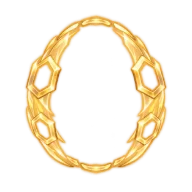
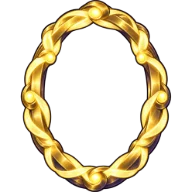
전투판: 칸 아래 알약 가로로 나란히 · 다음 그림 10장 (물 예고 3 · 별자리 표식 · 결계 · 별의 잠 · 해파리 2 · 안전 칸 · 번호패) (89)
- Lim 2026-10-16: 「상태, 쥐떼가 겹치면 수평으로 나란히」 → 칸 아래 꼭짓점 알약 (성격 상태 · 때리는 적 이름 · 쥐떼)을 lowPills가 한 줄에 가로로 나란히 (묶음 가운데 = 칸 가운데, 판 밖이면 묶음째 안쪽).
  「20인 글자는 5인 기준 비율대로 축소, 예외 없음」 · 「강타 숫자는 이름을 가려도 그 위에」는 지금 그대로라 바꾸지 않음.
- 「다음 그림도」: 물 예고 3종 점선 뺌 (물만 칸 아래 1/3), 별자리 표식 · 결계 · 별의 잠 굵게 (HERO_ART_BOX 다시 재고 크기 맞춤),
  해파리 고리 · 점괘 굵은 외곽선, 안전 칸은 빛 기둥 (받침 발판과 구분), 차례 번호표 = 은쟁반 번호패 그림 + 숫자 (다음 번호는 금빛).
- 감옥 칸: 감옥 그림이 있으면 크림 테를 그리지 않고, 딜러가 깨는 중 표시는 금빛 과녁 원 대신 일점사와 같은 칼날 표식.

diff --git a/src/battle/board.ts b/src/battle/board.ts
@@ -751,6 +751,15 @@ function pill(g: Graphics, lb: Labels, key: string, x: number, y: number, text: 
   recordBound(key, kind, 'pill', p.x, p.y, w + 1.5, h + 1.5);
   return { ...p, w: w + 1.5, h: h + 1.5 };
 }
+/** 칸 아래 꼭짓점 알약 여럿 (상태 · 때리는 적 · 쥐떼): 한 줄에 가로로 나란히, 묶음 가운데가 칸 가운데 (판 밖으로 나가면 묶음째 안쪽으로) */
+function lowPills(list: { key: string; text: string; bg: number; fg: number }[], x: number, y: number, size: number): void {
+  if (!list.length) return;
+  const gap = 2, ws = list.map(p => measure(p.text, size) + size * 0.7 + 1.5), total = ws.reduce((a, w) => a + w, 0) + gap * (list.length - 1);
+  let cx = Math.min(Math.max(x, L.left + total / 2 + 0.75), L.right - total / 2 - 0.75);
+  if (L.right - L.left < total + 1.5) cx = (L.left + L.right) / 2;
+  let left = cx - total / 2;
+  list.forEach((p, i) => { pill(overG, labels, p.key, left + ws[i] / 2, y, p.text, p.bg, p.fg, size); left += ws[i] + gap; });
+}
 /** 지속 힐 원 (디버프 배지가 없을 때 오른쪽 위). 배지가 있으면 배지 줄 오른쪽 (hotSpot) */
 function hotCenter(x: number, y: number, radius: number, lower: number): { x: number; y: number } {
   const p = fitCenter(x, y, radius);
@@ -1235,8 +1244,8 @@ const HERO_BOARD_ART: Partial<Record<HeroKey, string[]>> = {
  * 칸 위에 얹는 그림의 그려진 부분 (192px 그림 중 폭 · 높이 비율, 80 5장 납품본을 잼). 판 가장자리에서 크기를 줄일 때 씀 (비율은 그대로)
  */
 const HERO_ART_BOX: Record<string, [number, number]> = {
-  'board-totem-rain': [0.75, 0.92], 'board-mist': [0.98, 0.49], 'board-seal': [0.85, 0.96], 'board-barrier': [0.74, 0.84],
-  'board-star-mark': [0.86, 0.66], 'board-star': [0.8, 0.96], 'board-star-sleep': [0.74, 0.98],
+  'board-totem-rain': [0.75, 0.92], 'board-mist': [0.98, 0.49], 'board-seal': [0.85, 0.96], 'board-barrier': [0.79, 1],
+  'board-star-mark': [0.99, 0.79], 'board-star': [0.8, 0.96], 'board-star-sleep': [0.79, 1], // 결계 · 별의 잠 · 별자리 표식은 2026-10-16 굵게 다시 그림 (89)
 };
 /** 점성술사 모으는 별 (80 5장 board-star): 별 n개 자리 (칸 반지름 배, 대상 칸 가운데 기준). 차례로 선을 이음 */
 const CHARGE_STARS: [number, number][][] = [
@@ -1631,9 +1640,9 @@ export function render(now: number): void {
     if (mist) heroArt(fxArt, 'board-mist', `hero-mist${u.id}`, x, y + r * 0.55, r * 1.5, mist.left < 2 ? 0.35 + 0.35 * pulse : 0.7);
     if (F.hero === 'warder' && absorbLeft(F, u) > 0) {
       const left = Math.max(0, ...u.mods.filter(m => m.k === 'absorb' && m.src === HEALER_SHIELD).map(m => m.until - F.t));
-      heroArt(fxArt, 'board-barrier', `hero-barrier${u.id}`, x, y, r * 2.45, left < 2 ? 0.4 + 0.45 * pulse : 0.85);
+      heroArt(fxArt, 'board-barrier', `hero-barrier${u.id}`, x, y, r * 2.06, left < 2 ? 0.4 + 0.45 * pulse : 0.85);
     }
-    if (asleep(F, u)) heroArt(fxArt, 'board-star-sleep', `hero-sleep${u.id}`, x, y, r * 2.1, u.sleep! - F.t < 1 ? 0.5 + 0.4 * pulse : 0.9);
+    if (asleep(F, u)) heroArt(fxArt, 'board-star-sleep', `hero-sleep${u.id}`, x, y, r * 2.06, u.sleep! - F.t < 1 ? 0.5 + 0.4 * pulse : 0.9);
     // 어둠물에 잠긴 사람: 칸 아래 40%가 물에 잠김 (물 높이가 출렁) · 받는 치유 −50%
     if (tideSet.has(u.cell)) {
       const wy = bot - 2 * r * 0.4 + (S.reducedEffects ? 0 : Math.sin(t * 3 + u.id) * s * 0.03), th = Math.max(1.5, s * 0.035);
@@ -1999,10 +2008,12 @@ export function render(now: number): void {
         .stroke({ width: Math.max(1.2, br * 0.18), color: C.tankMark, cap: 'round' });
       recordBound(`aggro${u.id}`, 'aggro', 'circle', bx, by, br * 2 + bw, br * 2 + bw);
     }
-    if (F.rats && F.rats.includes(u.id)) pill(overG, labels, `rat${u.id}`, x - r * 0.05, y + r * 0.95, '쥐떼', 0xb9a38a, C.dark, fs(0.18, 9));
+    // 칸 아래 꼭짓점 알약 (성격 상태 · 때리는 적 이름 · 쥐떼): 같이 걸리면 가로로 나란히 (2026-10-16 Lim 「겹치면 수평으로 나란히」, 아래 lowPills)
+    const low: { key: string; text: string; bg: number; fg: number }[] = [];
     // 판 위 적이 때리는 사람 (부탱커·딜러) · 자폭 쫄이 노리는 사람: 그 적 이름 (35 3-I)
     const add = F.mobs.find(m => m.alive && m.add && m.add.on === u.id && (m.add.dmg > 0 || m.add.job?.p === 'smash' || m.add.job?.p === 'fixate'));
-    if (add) pill(overG, labels, `add${u.id}`, x - r * 0.05, y + r * 0.95, add.add!.short, add.add!.job?.p === 'fixate' ? C.danger : 0xe8b4a8, add.add!.job?.p === 'fixate' ? C.white : C.dark, fs(0.18, 9));
+    if (add) low.push({ key: `add${u.id}`, text: add.add!.short, bg: add.add!.job?.p === 'fixate' ? C.danger : 0xe8b4a8, fg: add.add!.job?.p === 'fixate' ? C.white : C.dark });
+    if (F.rats && F.rats.includes(u.id)) low.push({ key: `rat${u.id}`, text: '쥐떼', bg: 0xb9a38a, fg: C.dark });
     // 감옥 (P-JAIL): 갇힌 사람 칸에 창살 (감옥 체력은 디버프 배지). 딜러가 깨는 중이면 금빛 과녁
     const jail = F.mobs.find(m => m.alive && m.add?.hold != null && m.add.on === u.id);
     if (jail) {
@@ -2013,8 +2024,13 @@ export function render(now: number): void {
         for (let k = -2; k <= 2; k++) { const h = k === -2 || k === 2 ? 0.5 : 0.84; overG.moveTo(x + k * r * 0.3, y - r * h).lineTo(x + k * r * 0.3, y + r * h); }
         overG.stroke({ width: w, color: 0xd8c7a8, alpha: 0.75 });
       }
-      hexPoly(overG, x, y, r * 0.96).stroke({ width: w * 1.3, color: 0xd8c7a8, alpha: 0.95 });
-      if (jail === focusOrder(F)[0]) overG.circle(x, y, r * 0.8).stroke({ width: Math.max(2.5, s * 0.06), color: C.gold, alpha: 0.6 + 0.4 * pulse });
+      if (!jt) hexPoly(overG, x, y, r * 0.96).stroke({ width: w * 1.3, color: 0xd8c7a8, alpha: 0.95 }); // 감옥 그림이 있으면 창살 그림만 (2026-10-16 디자이너 검수 17: 테가 세 겹이었음)
+      if (jail === focusOrder(F)[0]) {
+        // 딜러가 깨는 중: 판 위 적 일점사와 같은 금빛 칼날 표식 (금빛 과녁 원 대신)
+        const ft = artTexture('icon-gim-focus'), fz = r * 0.62;
+        if (ft) { const fp = fitCenter(x + r * 0.56, y - r * 0.52, fz / 2); marks.put(ft, fp.x, fp.y, fz, fz, 0.75 + 0.25 * pulse); }
+        else overG.circle(x, y, r * 0.8).stroke({ width: Math.max(2.5, s * 0.06), color: C.gold, alpha: 0.6 + 0.4 * pulse });
+      }
     }
     // 맞을 때 실제로 받을 양 (engine busterOn = damage()와 같은 계산): 탱커 강타가 탱커 아닌 사람에게 가면 직업군 방어력만큼 큼 (2026-10-16 Lim 「예상보다 많이 깎여 한방에 죽음」)
     const bo = busterOn(F, u);
@@ -2048,7 +2064,17 @@ export function render(now: number): void {
     const markAt = (text: string, size: number) => !peakY ? { x: x - r * 0.55, y: leftY != null ? leftY + 1 + (size * 1.32 + 1.5) / 2 : y - r * 0.42 }
       : { x: tank === u ? x - aimR - aimW / 2 - 1 - (measure(text, size) + size * 0.7) / 2 : x, y: peakY };
     let markBox: PillBox | undefined;
-    if (F.order && ok >= F.order.i) { const m = markAt(ORDER_NUM[ok], fs(0.3, 12)); markBox = pill(overG, labels, `ord${u.id}`, m.x, m.y, ORDER_NUM[ok], ok === F.order.i ? C.gold : 0xd9dde6, C.dark, fs(0.3, 12), ok === F.order.i ? 0.75 + 0.25 * pulse : 1); }
+    if (F.order && ok >= F.order.i) {
+      // 은쟁반 번호패 그림 (board-order-token, 2026-10-16 Lim 「다음 그림도」) 위에 숫자, 다음 번호는 금빛으로 물들이고 깜빡임. 그림이 없으면 예전 알약
+      const tt = artTexture('board-order-token'), size = fs(0.3, 12), z = size * 1.75, m = markAt(ORDER_NUM[ok], size), now1 = ok === F.order.i, a = now1 ? 0.75 + 0.25 * pulse : 1;
+      if (tt) {
+        const tp = fitCenter(m.x, m.y, z / 2);
+        marks.put(tt, tp.x, tp.y, z, z, a, now1 ? 0xffd36a : 0xffffff);
+        badgeLabels.put(`ord${u.id}`, String(ok + 1), { size: size * 0.95, fill: C.dark, weight: W_NUM }, tp.x, tp.y + size * 0.04, a);
+        markBox = { x: tp.x, y: tp.y, w: z, h: z };
+        recordBound(`ord${u.id}`, 'pill', 'icon', tp.x, tp.y, z, z);
+      } else markBox = pill(overG, labels, `ord${u.id}`, m.x, m.y, ORDER_NUM[ok], now1 ? C.gold : 0xd9dde6, C.dark, size, a);
+    }
     else if (u.debuffs.some(d => d.invert)) {
       // 뒤집힌 축복: 그림 (icon-gim-invert, 힐하면 피해). ✕ 알약은 「해제 불가 ×」로 읽혀 그림으로 바꿈 (2026-10-16 QA · CLAUDE.md × 금지 규칙)
       const it = artTexture('icon-gim-invert'), z = fs(0.28, 11) * 1.75, m = markAt('✕', fs(0.28, 11));
@@ -2072,15 +2098,16 @@ export function render(now: number): void {
     // 결계사 인장 · 점성술사 별자리 표식 (80 5장): 칸 왼쪽 위에 작게 (지속 치유 시간 원의 반대편, 보호막 원이 있으면 그 아래). 이름 · 체력 · 직업 아이콘은 그 자리 그대로, 글자 · 배지가 위에 그려짐
     const sign = F.hero === 'warder' && sealed(F, u) ? 'board-seal' : F.hero === 'astrologer' && u.hots.some(h => h.key === 'starMark' && h.left > 0) ? 'board-star-mark' : '';
     if (sign) {
-      const size = r * (sign === 'board-seal' ? 0.52 : 0.66) * (leftY != null ? 0.85 : 1), half = (size * HERO_ART_BOX[sign][1]) / 2; // 보호막 원 아래로 내려가면 이름에 덜 걸리게 조금 작게
+      const size = r * (sign === 'board-seal' ? 0.52 : 0.57) * (leftY != null ? 0.85 : 1), half = (size * HERO_ART_BOX[sign][1]) / 2; // 보호막 원 아래로 내려가면 이름에 덜 걸리게 조금 작게
       heroArt(marks, sign, `hero-sign${u.id}`, x - r * 0.56, leftY != null ? leftY + 1 + half : y - r * 0.44, size, sign === 'board-seal' && u.seal! - F.t < 2 ? 0.5 + 0.5 * pulse : 1, true);
     }
     if (F.t < u.wrongUntil && F.t > u.wrongUntil - 0.6) pill(overG, labels, `q${u.id}`, x + r * 0.62, y - r * 0.05, '?', C.gold, C.dark, fs(0.28, 11));
     else if (F.t < u.mistakeUntil && F.t > u.mistakeUntil - 0.6) pill(overG, labels, `q${u.id}`, x + r * 0.62, y - r * 0.05, '!', 0xff5a3d, C.dark, fs(0.28, 11));
     const st = u.lift ? ([`하늘 ${Math.max(0, Math.ceil(u.lift.until - F.t))}`, '#9FD8F5'] as const) : u.pulled ? ([`끌림 ${Math.ceil(u.pulled.until - F.t)}`, '#C98B5A'] as const) : u.fleeing ? (['도망', '#DB9B57'] as const) : u.sulking ? (['삐짐', '#D68FA6'] as const)
       : u.ps?.panicUntil != null && F.t < u.ps.panicUntil ? (['당황', '#D68FA6'] as const) : u.ps?.rageUntil != null && F.t < u.ps.rageUntil ? (['분노', '#E0705A'] as const) : null; // 소심이 · 다혈질 (75)
-    if (st && s >= 40) pill(overG, labels, `st${u.id}`, x, y + r * 0.95, st[0], hex(st[1]), C.dark, fs(0.18, 9));
+    if (st && s >= 40) low.unshift({ key: `st${u.id}`, text: st[0], bg: hex(st[1]), fg: C.dark });
     else if (st) hexPoly(overG, x, y, ringRadius(`status${u.id}`, 'hex', x, y, r * 0.95, 3)).stroke({ width: 3, color: hex(st[1]), alpha: 0.5 + 0.5 * pulse });
+    lowPills(low, x, y + r * 0.95, fs(0.18, 9));
   }
   // 표시된 글자 bounds만 노출한다. 값이 바뀔 때만 기록하며 전투/입력 상태에는 관여하지 않는다.
   let neighborGap = Infinity;
